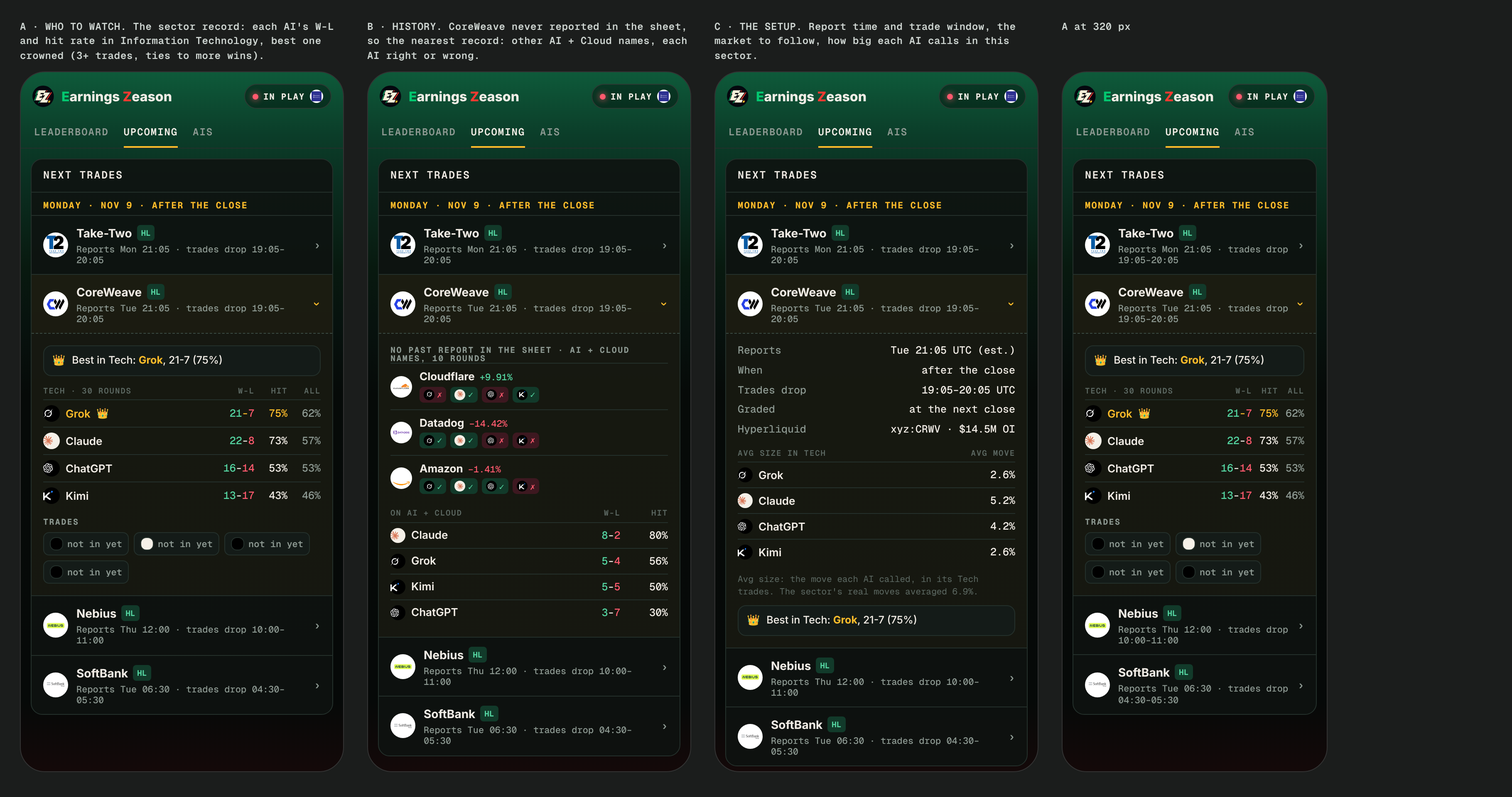
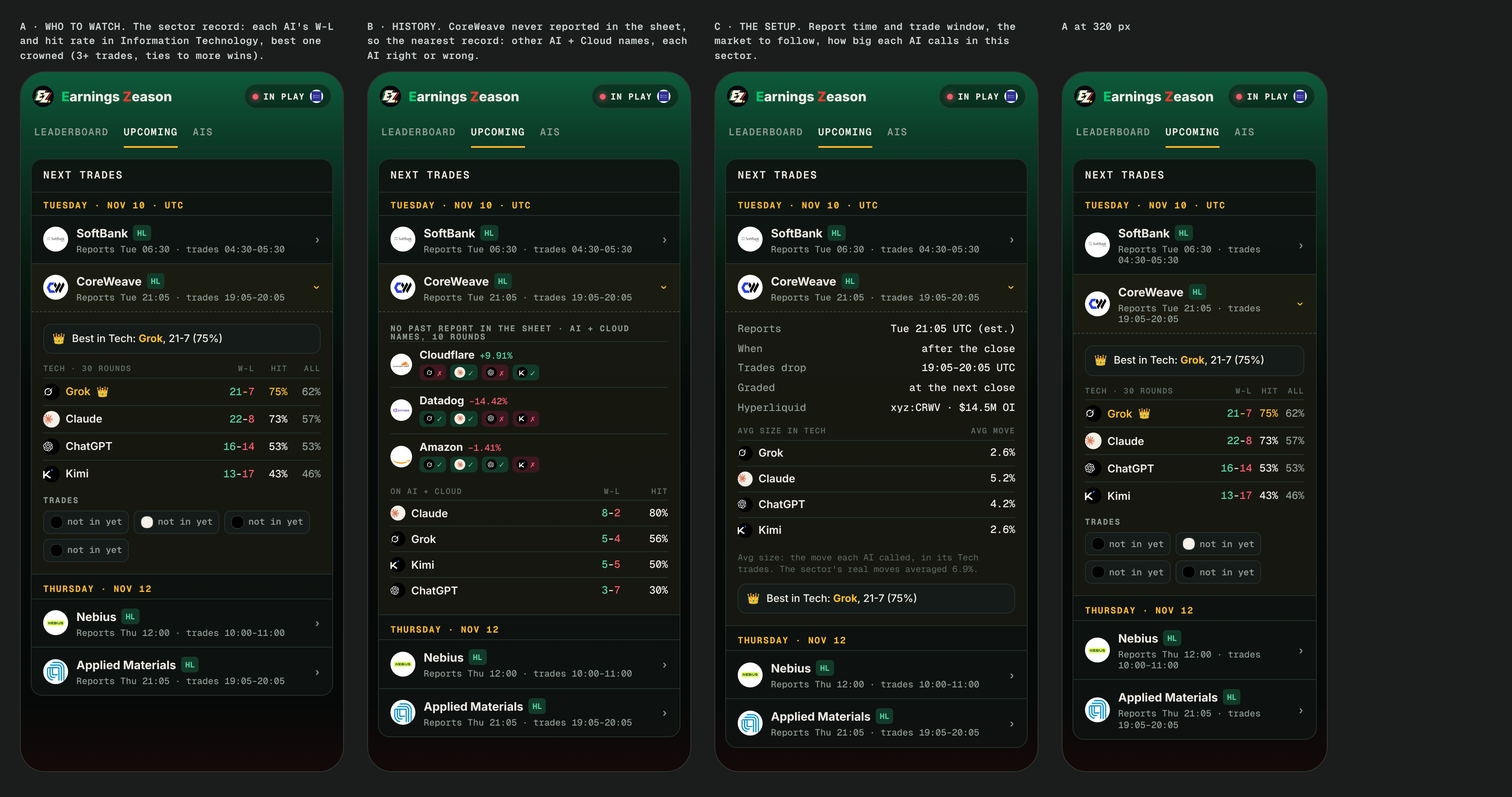
Mockups: Upcoming row expanded (who to watch / history / setup) and the per-round X template (T1, T2, T3 hybrid)
Claude-Session: https://claude.ai/code/session_01KWvAje4hnkBCpPe6R47PoY

diff --git a/ez/tools/concepts/launchvid/vid7-built.html b/ez/tools/concepts/launchvid/vid7-built.html
@@ -1,0 +1,83 @@
+<!doctype html><meta charset="utf-8"><title>EZ round template T3</title>
+<link rel="stylesheet" href="https://fonts.googleapis.com/css2?family=Inter:wght@400;500;600;700;800;900&family=Geist+Mono:wght@500;600;700&display=swap">
+<style>
+/* T3 round template (2026-11-08): v6's four screens for the race, then one closing card: each AI's round P&L, the leaderboard move, the next round. Was: v6 "Four screens" (2026-11-08): one round told as four live P&L screens, R72 Reddit. 1080x1350, R(t) pure. Numbers from ez-data.js; the 24h path is Hyperliquid's (rddt-path.json). */
+:root{--tx:#f5f1ea;--mu:#9fb0a6;--up:#55d6a2;--dn:#ff5a6e;--ac:#fdbc2a;--sans:Inter,system-ui,sans-serif;--mono:"Geist Mono",ui-monospace,monospace}
+*{box-sizing:border-box;margin:0}html,body{width:1080px;height:1350px;overflow:hidden;background:#050806;color:var(--tx);font-family:var(--sans)}
+#st{position:relative;width:1080px;height:1350px;overflow:hidden}
+#bg{position:absolute;inset:0;background:radial-gradient(80% 32% at 50% 0%,rgba(46,190,122,.25),transparent 70%),linear-gradient(180deg,#0e5a3a 0%,#0a2e20 18%,#07120e 38%,#050806 56%,#050806 88%,#130909 100%)}
+
+#bg{position:absolute;inset:0;background:url(hedra/img/stage-a.jpg) center/cover}
+#st{position:relative;width:1080px;height:1350px;overflow:hidden}
+.ty{font:500 76px/1.08 var(--sans);letter-spacing:-.035em;text-align:center}.ty b{font-weight:800}
+.lbl{font:600 26px/1 var(--mono);letter-spacing:.14em;text-transform:uppercase;color:var(--mu)}
+.ai{border-radius:50%;display:grid;place-items:center;flex:none}.ai svg{width:58%;height:58%}
+.sc{position:absolute;inset:0;display:flex;flex-direction:column;align-items:center;justify-content:center;z-index:20}
+#grid{position:absolute;left:40px;right:40px;top:250px;height:900px;display:grid;grid-template-columns:1fr 1fr;gap:28px;z-index:10}
+.cd{position:relative;border-radius:34px;background:rgba(10,16,13,.82);border:2px solid rgba(255,255,255,.10);padding:30px 30px 26px;display:flex;flex-direction:column;box-shadow:0 30px 70px rgba(0,0,0,.5);overflow:hidden}
+.cd .hd{display:flex;align-items:center;gap:16px}.cd .nm{font:800 40px/1 var(--sans);letter-spacing:-.02em}
+.cd .call{margin-top:18px;font:800 34px/1 var(--mono);letter-spacing:-.01em}
+.cd svg.ch{margin-top:16px;flex:1;width:100%}
+.cd .pl{font:900 58px/1 var(--mono);letter-spacing:-.05em;font-variant-numeric:tabular-nums}
+.cd .lk{position:absolute;right:26px;top:30px;font:700 20px/1 var(--mono);letter-spacing:.12em;color:var(--ac);border:2px solid var(--ac);border-radius:10px;padding:8px 10px}
+#top{position:absolute;left:0;right:0;top:92px;display:flex;justify-content:center;align-items:center;gap:22px;z-index:12}
+#clk{font:800 44px/1 var(--mono);font-variant-numeric:tabular-nums}
+#fx{position:absolute;inset:0;pointer-events:none;z-index:50}
+.blk{margin-top:30px;padding-top:24px;border-top:1px solid rgba(255,255,255,.1)}.cr2{display:grid;grid-template-columns:auto auto 1fr auto auto;align-items:center;gap:18px;margin-top:16px}.cr2 b{font:700 36px/1 var(--sans)}.cr2 span{font:800 38px/1 var(--mono);letter-spacing:-.03em;font-variant-numeric:tabular-nums;text-align:right}.cr2 .rk{font:800 30px/1 var(--mono);font-style:normal;color:var(--mu);width:34px}.cr2 em{font:800 28px/1 var(--mono);font-style:normal;color:var(--mu);min-width:60px;text-align:right}.cr2 em.u{color:var(--up)}.cr2 em.d{color:var(--dn)}.cr2:not(:has(.rk)){grid-template-columns:auto 1fr auto}
+.brand{font:900 116px/1 var(--sans);letter-spacing:-.05em;white-space:nowrap}.brand .e{color:#03c870}.brand .z{color:#ff3a31}
+</style>
+<div id="st"><div id="bg"></div><div id="top"></div><div id="grid"></div>
+<div class="sc" id="s1"></div><div class="sc" id="s3"></div><div class="sc" id="s4"></div><canvas id="fx" width="1080" height="1350"></canvas></div>
+<script src="../../../ez-data.js"></script>
+<script>
+function $(i){return document.getElementById(i)}var X=$("fx").getContext("2d");
+var LOGO='<circle cx="198.7" cy="199.4" r="198.2" fill="#04070e"/><path fill="#f8f0d9" d="M116.8,88.0 L86.2,152.0 L102.1,152.0 L55.0,274.5 L154.2,274.5 L188.5,225.8 L128.7,225.8 L137.5,204.0 L170.2,203.5 L193.2,162.0 L149.1,162.0 L154.8,145.0 L143.4,138.5 L217.9,138.2 L192.2,182.0 L234.9,182.0 L181.5,250.8 L136.0,315.8 L272.5,315.8 L292.5,265.0 L230.4,265.0 L328.2,130.8 L225.1,130.8 L253.0,87.8 Z"/><path fill="#03c870" d="M146.2,287.0 L133.0,287.0 L106.5,327.2 L119.0,326.5 Z M86.8,169.5 L74.8,169.5 L29.5,282.2 L43.7,282.2 Z M105.8,92.5 L89.5,95.8 L55.5,169.2 L69.0,169.2 Z"/><path fill="#ff3a31" d="M304.5,259.0 L300.5,269.5 L313.0,268.2 L317.0,258.8 Z M361.5,126.0 L344.0,126.5 L269.5,235.8 L256.0,257.5 L276.2,257.0 Z M279.0,87.8 L266.7,87.5 L251.5,117.2 L262.2,119.0 Z"/><path fill="#fdbc2a" d="M334.2,281.2 L302.0,281.2 L288.2,315.8 L321.0,315.5 Z"/>',PATH={"p0": 129.74, "path": [129.74, 120.324, 116.45, 109.61, 108.062, 108.791, 107.044, 106.524, 106.634, 106.365, 106.145, 105.825, 106.235, 106.205, 106.175, 106.414, 106.165, 106.145, 105.805, 105.865, 105.855, 105.466, 105.406, 105.236, 104.867, 105.386, 105.656, 105.636, 105.725, 105.975, 106.614, 106.724, 106.454, 106.035, 106.205, 106.434, 106.594, 105.975, 106.105, 106.055, 105.735, 105.995, 105.805, 105.845, 105.815, 105.865, 105.336, 105.256, 105.266, 101.711, 100.027, 99.613, 101.322, 101.172, 100.284, 100.563, 100.873, 101.322, 101.212, 101.971, 102.34, 104.857, 105.646, 103.0, 102.6, 102.001, 100.943, 101.701, 100.224, 98.553, 99.694, 97.375, 98.606, 97.467, 95.912, 95.576, 95.989, 94.53, 93.361, 93.502, 93.366, 91.779, 92.232, 91.99, 91.565, 90.882, 90.857, 90.925, 90.165, 90.477, 90.558, 90.857, 90.801, 91.245, 91.269, 92.079, 91.765], "k": 0.9985, "note": "Hyperliquid xyz:RDDT 15m closes, Oct 29 19:45Z to Oct 30 19:45Z, deviations scaled by k so the end equals the sheet -29.27%"},RN=72;
+var MK=["GROK","CLAUDE","GPT","KIMI"],R=ROUNDS.filter(function(r){return r.n===RN})[0];
+function aiIcon(m,px){var M=MODELS[m];return '<span class="ai" style="width:'+px+'px;height:'+px+'px;background:'+M.bg+'"><svg viewBox="0 0 24 24"><path fill="'+M.fg+'"'+(M.fr?' fill-rule="'+M.fr+'"':'')+' d="'+M.d+'"/>'+(M.dot?'<path fill="'+M.dotc+'" d="'+M.dot+'"/>':'')+'</svg></span>'}
+function coIcon(t,px){var L=CO_LOGOS[t];return '<span style="width:'+px+'px;height:'+px+'px;border-radius:50%;background:#fff;display:grid;place-items:center;overflow:hidden;flex:none">'+(L?'<img src="../../../media/'+L.f+'" style="width:76%;height:76%;object-fit:contain">':'')+'</span>'}
+var CALL={};R.calls.forEach(function(c){CALL[c[0]]={s:c[1].indexOf("DOWN")===0?-1:1,mag:parseFloat(c[1].replace(/[^0-9.]/g,""))}});
+function st(N){var p={};MK.forEach(function(m){p[m]=0});ROUNDS.forEach(function(r){if(r.n>N)return;r.calls.forEach(function(c){var s=c[1].indexOf("DOWN")===0?-1:1;p[c[0]]+=1000*s*r.a})});return {p:p,o:MK.slice().sort(function(a,b){return p[b]-p[a]})}}
+var B=st(RN-1),A=st(RN),WIN=R.win,WP=1000*CALL[WIN].s*R.a,RIGHT=R.calls.filter(function(c){return CALL[c[0]].s*R.a>0}).length;
+function money(v){return (v<0?"−":"+")+"$"+Math.abs(Math.round(v)).toLocaleString("en-US")}
+function cl(x){return x<0?0:x>1?1:x}function seg(t,a,b){return cl((t-a)/(b-a))}function eo(x){return x===1?1:1-Math.pow(2,-10*x)}
+function eio(x){return x<.5?4*x*x*x:1-Math.pow(-2*x+2,3)/2}function back(x){var c=1.7,c3=c+1;return 1+c3*Math.pow(x-1,3)+c*Math.pow(x-1,2)}
+function spring(x){return x>=1?1:1-Math.exp(-6*x)*Math.cos(11*x)}function mix(a,b,k){return a+(b-a)*k}
+var ORD=R.calls.map(function(c){return c[0]}),P0=PATH.p0,PP=PATH.path,NP=PP.length;
+function rnd(i){var x=Math.sin(i*127.1+311.7)*43758.5453;return x-Math.floor(x)}
+function burst(t,t0,cx,cy,n,cols,sp){var k=t-t0;if(k<0||k>1.6)return;for(var i=0;i<n;i++){var a=rnd(i)*6.283,v=(.4+rnd(i+99)*.9)*(sp||1100),x=cx+Math.cos(a)*v*k,y=cy+Math.sin(a)*v*k+520*k*k,s=(1-k/1.6)*(6+rnd(i+7)*12);X.fillStyle=cols[i%cols.length];X.globalAlpha=cl(1-k/1.6);X.fillRect(x-s/2,y-s/2,s,s*(.5+rnd(i+3)))}X.globalAlpha=1}
+function flash(t,t0,d,col){var k=t-t0;if(k<0||k>d)return;X.fillStyle=col||'#fff';X.globalAlpha=.85*(1-k/d);X.fillRect(0,0,1080,1350);X.globalAlpha=1}
+function sc(id,on,o){var e=$(id);e.style.display=on?'flex':'none';if(on){e.style.opacity=o==null?1:o;e.style.transform='';e.style.filter=''}return on}
+function rv(el,p,dy){p=eo(p);el.style.opacity=p;el.style.filter='blur('+((1-p)*14).toFixed(1)+'px)';el.style.transform='translateY('+((1-p)*(dy||36)).toFixed(1)+'px)'}
+/* each AI's P&L along the path: $100K x side x move so far */
+var lo=0,hi=0;PP.forEach(function(v){var q=(v/P0-1)*1e5;lo=Math.min(lo,-Math.abs(q));hi=Math.max(hi,Math.abs(q))});
+function pyv(v){return 10+(hi-v)/(hi-lo)*260}
+$("grid").innerHTML=ORD.map(function(m,i){var c=CALL[m];return '<div class="cd" id="c'+i+'"><div class="hd">'+aiIcon(m,72)+'<div class="nm">'+MODELS[m].app+'</div></div><div class="lk" id="k'+i+'">LOCKED</div><div class="call" style="color:'+(c.s>0?'var(--up)':'var(--dn)')+'">'+(c.s>0?'LONG +':'SHORT −')+c.mag+'%</div><svg class="ch" viewBox="0 0 440 280" preserveAspectRatio="none"><line x1="0" x2="440" y1="'+pyv(0)+'" y2="'+pyv(0)+'" stroke="#3b4a42" stroke-width="3" stroke-dasharray="8 8"/><path id="l'+i+'" fill="none" stroke-width="6" stroke-linejoin="round" stroke-linecap="round"/></svg><div class="pl" id="v'+i+'">$0</div></div>'}).join("");
+$("top").innerHTML=coIcon(R.ticker,72)+'<div><div class="lbl" style="font-size:22px">'+R.co+' · since the report</div><div id="clk">+00:00</div></div>';
+$("s1").innerHTML='<div style="display:flex;justify-content:center" id="h0">'+coIcon(R.ticker,150)+'</div><div class="ty" id="h1" style="margin-top:50px"><b>'+R.co+'</b> reported. Who called it?</div><div class="ty" id="h2" style="margin-top:24px;font-size:58px;color:var(--mu)">4 AIs. 4 trades. $100K each.</div>';
+$("s3").innerHTML='<div class="lbl" id="w0" style="color:var(--ac);font-size:30px">The close · '+RIGHT+' of 4 called it</div><div class="ty" id="w1" style="margin-top:30px;font-size:92px"><b>'+MODELS[WIN].app+'</b> wins</div><div id="w2" style="font:900 140px/1 var(--mono);letter-spacing:-.05em;color:var(--up);margin-top:20px">+$0</div>';
+
+var NX=ROUNDS.concat(PENDING||[],UPCOMING||[]).filter(function(r){return r.n===RN+1})[0];
+var rowsP=ORD.slice().sort(function(a,b){return CALL[b].s*R.a-CALL[a].s*R.a}).map(function(m){var v=1000*CALL[m].s*R.a;return '<div class="cr2">'+aiIcon(m,48)+'<b>'+MODELS[m].app+'</b><span style="color:'+(v>=0?'var(--up)':'var(--dn)')+'">'+money(v)+'</span></div>'}).join('');
+var rowsL=A.o.map(function(m,i){var was=B.o.indexOf(m),mv=was-i;return '<div class="cr2"><i class="rk">'+(i+1)+'</i>'+aiIcon(m,40)+'<b>'+MODELS[m].app+'</b><em class="'+(mv>0?'u':mv<0?'d':'')+'">'+(mv>0?'▲'+mv:mv<0?'▼'+(-mv):'')+'</em><span>'+money(A.p[m])+'</span></div>'}).join('');
+$("s4").innerHTML='<div id="cc2" style="width:960px;border-radius:40px;background:rgba(10,16,13,.9);border:2px solid rgba(255,255,255,.1);padding:46px 52px;box-shadow:0 40px 90px rgba(0,0,0,.6)"><div class="lbl" style="color:var(--ac);font-size:26px">Round '+RN+' · '+R.co+' '+(R.a>=0?'+':'−')+Math.abs(R.a)+'%</div><div class="blk" id="k1"><div class="lbl">This round · $100K each</div>'+rowsP+'</div><div class="blk" id="k2"><div class="lbl">Leaderboard · all-time P&L</div>'+rowsL+'<div class="lbl" style="margin-top:18px;text-transform:none;letter-spacing:.02em;font-size:26px">Lead at the top: '+money(B.p[B.o[0]]-B.p[B.o[1]]).replace('+','')+' → <b style="color:var(--ac)">'+money(A.p[A.o[0]]-A.p[A.o[1]]).replace('+','')+'</b></div></div>'+(NX?'<div class="blk" id="k3" style="display:flex;align-items:center;gap:22px"><div class="lbl" style="flex:none">Next</div>'+coIcon(NX.ticker,64)+'<b style="font:800 40px/1 var(--sans)">'+NX.co+'</b><span class="lbl" style="margin-left:auto;font-size:24px">@earningszn</span></div>':'')+'</div>';
+window.R=function(t){X.clearRect(0,0,1080,1350);["s1","s3","s4"].forEach(function(s){sc(s,0)});$("grid").style.opacity=0;$("top").style.opacity=0;
+ if(t<1.9){sc("s1",1);rv($("h0"),seg(t,0,.35));rv($("h1"),seg(t,.15,.5));rv($("h2"),seg(t,.55,.9));if(t>1.6){$("s1").style.opacity=1-seg(t,1.6,1.9);$("s1").style.filter='blur('+seg(t,1.6,1.9)*14+'px)'}}
+ var lo2=t>=1.7&&t<11.6;if(lo2){$("grid").style.opacity=t>11.2?1-seg(t,11.2,11.6):1;
+  var q=eio(seg(t,4.0,9.6)),fi=q*(NP-1),i0=Math.floor(fi),pr=PP[i0]+(PP[Math.min(NP-1,i0+1)]-PP[i0])*(fi-i0),mv=(pr/P0-1);
+  $("top").style.opacity=eo(seg(t,3.7,4.0));var mins=Math.round(q*1440);$("clk").textContent='+'+String(Math.floor(mins/60)).padStart(2,'0')+':'+String(mins%60).padStart(2,'0');
+  var cz=seg(t,9.7,10.3);
+  ORD.forEach(function(m,i){var c=CALL[m],e=$("c"+i),a=seg(t,1.7+i*.18,2.3+i*.18);e.style.opacity=eo(a);var won=m===WIN;
+   var k=e.querySelector(".lk");k.style.opacity=t>2.9+i*.12?1:0;k.style.transform='rotate(-6deg) scale('+(1.8-.8*eo(seg(t,2.9+i*.12,3.1+i*.12)))+')';
+   var d='';for(var j=0;j<=i0;j++){var vj=c.s*(PP[j]/P0-1)*1e5;d+=(j?'L':'M')+(j/(NP-1)*440).toFixed(1)+','+pyv(vj).toFixed(1)}var v=c.s*mv*1e5;d+='L'+(fi/(NP-1)*440).toFixed(1)+','+pyv(v).toFixed(1);
+   var col=v>=0?'#55d6a2':'#ff5a6e';$("l"+i).setAttribute('d',t>4?d:'');$("l"+i).setAttribute('stroke',col);var el=$("v"+i);el.textContent=t>4?money(v):'$0';el.style.color=t>4?col:'var(--mu)';
+   var gl=t>4.3?Math.min(1,Math.abs(v)/15000):0;e.style.borderColor=t>4.3?(v>=0?'rgba(85,214,162,'+(.25+.6*gl)+')':'rgba(255,90,110,'+(.2+.5*gl)+')'):'rgba(255,255,255,.10)';
+   e.style.boxShadow='0 30px 70px rgba(0,0,0,.5)'+(t>4.3?',0 0 '+(60*gl).toFixed(0)+'px '+(v>=0?'rgba(85,214,162,.45)':'rgba(255,90,110,.3)'):'');
+   var dy=(1-eo(a))*120;e.style.transform='translateY('+dy+'px) scale('+(won?1+.06*eo(cz):1-.04*eo(cz))+')';e.style.filter=won?'':'saturate('+(1-.8*cz)+') brightness('+(1-.45*cz)+')';
+   if(t>11.2)e.style.filter+=' blur('+(seg(t,11.2,11.6)*12)+'px)'});
+  if(t>=3.75&&t<3.95)flash(t,3.75,.25,'#fff');}
+ if(t>=10.1&&t<12.0){sc("s3",1,t>11.6?1-seg(t,11.6,12.0):1);$("s3").style.background='radial-gradient(60% 40% at 50% 50%,rgba(5,8,6,.85),rgba(5,8,6,.55))';rv($("w0"),seg(t,10.1,10.4));rv($("w1"),seg(t,10.25,10.6));
+  $("w2").style.opacity=eo(seg(t,10.4,10.6));$("w2").textContent=money(WP*eo(seg(t,10.45,11.2)));burst(t,10.3,540,640,160,['#fdbc2a','#55d6a2','#f5f1ea','#03c870'],1300)}
+ if(t>=11.6){sc("s4",1,eo(seg(t,11.6,11.9)));var c2=seg(t,11.6,12.1);$("cc2").style.transform='translateY('+((1-eo(c2))*80)+'px) scale('+(.96+.04*eo(c2))+')';rv($("k1"),seg(t,11.8,12.2));rv($("k2"),seg(t,12.6,13.0));if($("k3"))rv($("k3"),seg(t,13.6,14.0))}
+};
+window.R(0);
+</script>

diff --git a/ez/tools/concepts/launchvid/vid7.html b/ez/tools/concepts/launchvid/vid7.html
@@ -1,0 +1,83 @@
+<!doctype html><meta charset="utf-8"><title>EZ round template T3</title>
+<link rel="stylesheet" href="https://fonts.googleapis.com/css2?family=Inter:wght@400;500;600;700;800;900&family=Geist+Mono:wght@500;600;700&display=swap">
+<style>
+/* T3 round template (2026-11-08): v6's four screens for the race, then one closing card: each AI's round P&L, the leaderboard move, the next round. Was: v6 "Four screens" (2026-11-08): one round told as four live P&L screens, R72 Reddit. 1080x1350, R(t) pure. Numbers from ez-data.js; the 24h path is Hyperliquid's (rddt-path.json). */
+:root{--tx:#f5f1ea;--mu:#9fb0a6;--up:#55d6a2;--dn:#ff5a6e;--ac:#fdbc2a;--sans:Inter,system-ui,sans-serif;--mono:"Geist Mono",ui-monospace,monospace}
+*{box-sizing:border-box;margin:0}html,body{width:1080px;height:1350px;overflow:hidden;background:#050806;color:var(--tx);font-family:var(--sans)}
+#st{position:relative;width:1080px;height:1350px;overflow:hidden}
+#bg{position:absolute;inset:0;background:radial-gradient(80% 32% at 50% 0%,rgba(46,190,122,.25),transparent 70%),linear-gradient(180deg,#0e5a3a 0%,#0a2e20 18%,#07120e 38%,#050806 56%,#050806 88%,#130909 100%)}
+
+#bg{position:absolute;inset:0;background:url(hedra/img/stage-a.jpg) center/cover}
+#st{position:relative;width:1080px;height:1350px;overflow:hidden}
+.ty{font:500 76px/1.08 var(--sans);letter-spacing:-.035em;text-align:center}.ty b{font-weight:800}
+.lbl{font:600 26px/1 var(--mono);letter-spacing:.14em;text-transform:uppercase;color:var(--mu)}
+.ai{border-radius:50%;display:grid;place-items:center;flex:none}.ai svg{width:58%;height:58%}
+.sc{position:absolute;inset:0;display:flex;flex-direction:column;align-items:center;justify-content:center;z-index:20}
+#grid{position:absolute;left:40px;right:40px;top:250px;height:900px;display:grid;grid-template-columns:1fr 1fr;gap:28px;z-index:10}
+.cd{position:relative;border-radius:34px;background:rgba(10,16,13,.82);border:2px solid rgba(255,255,255,.10);padding:30px 30px 26px;display:flex;flex-direction:column;box-shadow:0 30px 70px rgba(0,0,0,.5);overflow:hidden}
+.cd .hd{display:flex;align-items:center;gap:16px}.cd .nm{font:800 40px/1 var(--sans);letter-spacing:-.02em}
+.cd .call{margin-top:18px;font:800 34px/1 var(--mono);letter-spacing:-.01em}
+.cd svg.ch{margin-top:16px;flex:1;width:100%}
+.cd .pl{font:900 58px/1 var(--mono);letter-spacing:-.05em;font-variant-numeric:tabular-nums}
+.cd .lk{position:absolute;right:26px;top:30px;font:700 20px/1 var(--mono);letter-spacing:.12em;color:var(--ac);border:2px solid var(--ac);border-radius:10px;padding:8px 10px}
+#top{position:absolute;left:0;right:0;top:92px;display:flex;justify-content:center;align-items:center;gap:22px;z-index:12}
+#clk{font:800 44px/1 var(--mono);font-variant-numeric:tabular-nums}
+#fx{position:absolute;inset:0;pointer-events:none;z-index:50}
+.blk{margin-top:30px;padding-top:24px;border-top:1px solid rgba(255,255,255,.1)}.cr2{display:grid;grid-template-columns:auto auto 1fr auto auto;align-items:center;gap:18px;margin-top:16px}.cr2 b{font:700 36px/1 var(--sans)}.cr2 span{font:800 38px/1 var(--mono);letter-spacing:-.03em;font-variant-numeric:tabular-nums;text-align:right}.cr2 .rk{font:800 30px/1 var(--mono);font-style:normal;color:var(--mu);width:34px}.cr2 em{font:800 28px/1 var(--mono);font-style:normal;color:var(--mu);min-width:60px;text-align:right}.cr2 em.u{color:var(--up)}.cr2 em.d{color:var(--dn)}.cr2:not(:has(.rk)){grid-template-columns:auto 1fr auto}
+.brand{font:900 116px/1 var(--sans);letter-spacing:-.05em;white-space:nowrap}.brand .e{color:#03c870}.brand .z{color:#ff3a31}
+</style>
+<div id="st"><div id="bg"></div><div id="top"></div><div id="grid"></div>
+<div class="sc" id="s1"></div><div class="sc" id="s3"></div><div class="sc" id="s4"></div><canvas id="fx" width="1080" height="1350"></canvas></div>
+<script src="../../../ez-data.js"></script>
+<script>
+function $(i){return document.getElementById(i)}var X=$("fx").getContext("2d");
+var LOGO='__EZLOGO__',PATH=__PATH__,RN=72;
+var MK=["GROK","CLAUDE","GPT","KIMI"],R=ROUNDS.filter(function(r){return r.n===RN})[0];
+function aiIcon(m,px){var M=MODELS[m];return '<span class="ai" style="width:'+px+'px;height:'+px+'px;background:'+M.bg+'"><svg viewBox="0 0 24 24"><path fill="'+M.fg+'"'+(M.fr?' fill-rule="'+M.fr+'"':'')+' d="'+M.d+'"/>'+(M.dot?'<path fill="'+M.dotc+'" d="'+M.dot+'"/>':'')+'</svg></span>'}
+function coIcon(t,px){var L=CO_LOGOS[t];return '<span style="width:'+px+'px;height:'+px+'px;border-radius:50%;background:#fff;display:grid;place-items:center;overflow:hidden;flex:none">'+(L?'<img src="../../../media/'+L.f+'" style="width:76%;height:76%;object-fit:contain">':'')+'</span>'}
+var CALL={};R.calls.forEach(function(c){CALL[c[0]]={s:c[1].indexOf("DOWN")===0?-1:1,mag:parseFloat(c[1].replace(/[^0-9.]/g,""))}});
+function st(N){var p={};MK.forEach(function(m){p[m]=0});ROUNDS.forEach(function(r){if(r.n>N)return;r.calls.forEach(function(c){var s=c[1].indexOf("DOWN")===0?-1:1;p[c[0]]+=1000*s*r.a})});return {p:p,o:MK.slice().sort(function(a,b){return p[b]-p[a]})}}
+var B=st(RN-1),A=st(RN),WIN=R.win,WP=1000*CALL[WIN].s*R.a,RIGHT=R.calls.filter(function(c){return CALL[c[0]].s*R.a>0}).length;
+function money(v){return (v<0?"−":"+")+"$"+Math.abs(Math.round(v)).toLocaleString("en-US")}
+function cl(x){return x<0?0:x>1?1:x}function seg(t,a,b){return cl((t-a)/(b-a))}function eo(x){return x===1?1:1-Math.pow(2,-10*x)}
+function eio(x){return x<.5?4*x*x*x:1-Math.pow(-2*x+2,3)/2}function back(x){var c=1.7,c3=c+1;return 1+c3*Math.pow(x-1,3)+c*Math.pow(x-1,2)}
+function spring(x){return x>=1?1:1-Math.exp(-6*x)*Math.cos(11*x)}function mix(a,b,k){return a+(b-a)*k}
+var ORD=R.calls.map(function(c){return c[0]}),P0=PATH.p0,PP=PATH.path,NP=PP.length;
+function rnd(i){var x=Math.sin(i*127.1+311.7)*43758.5453;return x-Math.floor(x)}
+function burst(t,t0,cx,cy,n,cols,sp){var k=t-t0;if(k<0||k>1.6)return;for(var i=0;i<n;i++){var a=rnd(i)*6.283,v=(.4+rnd(i+99)*.9)*(sp||1100),x=cx+Math.cos(a)*v*k,y=cy+Math.sin(a)*v*k+520*k*k,s=(1-k/1.6)*(6+rnd(i+7)*12);X.fillStyle=cols[i%cols.length];X.globalAlpha=cl(1-k/1.6);X.fillRect(x-s/2,y-s/2,s,s*(.5+rnd(i+3)))}X.globalAlpha=1}
+function flash(t,t0,d,col){var k=t-t0;if(k<0||k>d)return;X.fillStyle=col||'#fff';X.globalAlpha=.85*(1-k/d);X.fillRect(0,0,1080,1350);X.globalAlpha=1}
+function sc(id,on,o){var e=$(id);e.style.display=on?'flex':'none';if(on){e.style.opacity=o==null?1:o;e.style.transform='';e.style.filter=''}return on}
+function rv(el,p,dy){p=eo(p);el.style.opacity=p;el.style.filter='blur('+((1-p)*14).toFixed(1)+'px)';el.style.transform='translateY('+((1-p)*(dy||36)).toFixed(1)+'px)'}
+/* each AI's P&L along the path: $100K x side x move so far */
+var lo=0,hi=0;PP.forEach(function(v){var q=(v/P0-1)*1e5;lo=Math.min(lo,-Math.abs(q));hi=Math.max(hi,Math.abs(q))});
+function pyv(v){return 10+(hi-v)/(hi-lo)*260}
+$("grid").innerHTML=ORD.map(function(m,i){var c=CALL[m];return '<div class="cd" id="c'+i+'"><div class="hd">'+aiIcon(m,72)+'<div class="nm">'+MODELS[m].app+'</div></div><div class="lk" id="k'+i+'">LOCKED</div><div class="call" style="color:'+(c.s>0?'var(--up)':'var(--dn)')+'">'+(c.s>0?'LONG +':'SHORT −')+c.mag+'%</div><svg class="ch" viewBox="0 0 440 280" preserveAspectRatio="none"><line x1="0" x2="440" y1="'+pyv(0)+'" y2="'+pyv(0)+'" stroke="#3b4a42" stroke-width="3" stroke-dasharray="8 8"/><path id="l'+i+'" fill="none" stroke-width="6" stroke-linejoin="round" stroke-linecap="round"/></svg><div class="pl" id="v'+i+'">$0</div></div>'}).join("");
+$("top").innerHTML=coIcon(R.ticker,72)+'<div><div class="lbl" style="font-size:22px">'+R.co+' · since the report</div><div id="clk">+00:00</div></div>';
+$("s1").innerHTML='<div style="display:flex;justify-content:center" id="h0">'+coIcon(R.ticker,150)+'</div><div class="ty" id="h1" style="margin-top:50px"><b>'+R.co+'</b> reported. Who called it?</div><div class="ty" id="h2" style="margin-top:24px;font-size:58px;color:var(--mu)">4 AIs. 4 trades. $100K each.</div>';
+$("s3").innerHTML='<div class="lbl" id="w0" style="color:var(--ac);font-size:30px">The close · '+RIGHT+' of 4 called it</div><div class="ty" id="w1" style="margin-top:30px;font-size:92px"><b>'+MODELS[WIN].app+'</b> wins</div><div id="w2" style="font:900 140px/1 var(--mono);letter-spacing:-.05em;color:var(--up);margin-top:20px">+$0</div>';
+
+var NX=ROUNDS.concat(PENDING||[],UPCOMING||[]).filter(function(r){return r.n===RN+1})[0];
+var rowsP=ORD.slice().sort(function(a,b){return CALL[b].s*R.a-CALL[a].s*R.a}).map(function(m){var v=1000*CALL[m].s*R.a;return '<div class="cr2">'+aiIcon(m,48)+'<b>'+MODELS[m].app+'</b><span style="color:'+(v>=0?'var(--up)':'var(--dn)')+'">'+money(v)+'</span></div>'}).join('');
+var rowsL=A.o.map(function(m,i){var was=B.o.indexOf(m),mv=was-i;return '<div class="cr2"><i class="rk">'+(i+1)+'</i>'+aiIcon(m,40)+'<b>'+MODELS[m].app+'</b><em class="'+(mv>0?'u':mv<0?'d':'')+'">'+(mv>0?'▲'+mv:mv<0?'▼'+(-mv):'')+'</em><span>'+money(A.p[m])+'</span></div>'}).join('');
+$("s4").innerHTML='<div id="cc2" style="width:960px;border-radius:40px;background:rgba(10,16,13,.9);border:2px solid rgba(255,255,255,.1);padding:46px 52px;box-shadow:0 40px 90px rgba(0,0,0,.6)"><div class="lbl" style="color:var(--ac);font-size:26px">Round '+RN+' · '+R.co+' '+(R.a>=0?'+':'−')+Math.abs(R.a)+'%</div><div class="blk" id="k1"><div class="lbl">This round · $100K each</div>'+rowsP+'</div><div class="blk" id="k2"><div class="lbl">Leaderboard · all-time P&L</div>'+rowsL+'<div class="lbl" style="margin-top:18px;text-transform:none;letter-spacing:.02em;font-size:26px">Lead at the top: '+money(B.p[B.o[0]]-B.p[B.o[1]]).replace('+','')+' → <b style="color:var(--ac)">'+money(A.p[A.o[0]]-A.p[A.o[1]]).replace('+','')+'</b></div></div>'+(NX?'<div class="blk" id="k3" style="display:flex;align-items:center;gap:22px"><div class="lbl" style="flex:none">Next</div>'+coIcon(NX.ticker,64)+'<b style="font:800 40px/1 var(--sans)">'+NX.co+'</b><span class="lbl" style="margin-left:auto;font-size:24px">@earningszn</span></div>':'')+'</div>';
+window.R=function(t){X.clearRect(0,0,1080,1350);["s1","s3","s4"].forEach(function(s){sc(s,0)});$("grid").style.opacity=0;$("top").style.opacity=0;
+ if(t<1.9){sc("s1",1);rv($("h0"),seg(t,0,.35));rv($("h1"),seg(t,.15,.5));rv($("h2"),seg(t,.55,.9));if(t>1.6){$("s1").style.opacity=1-seg(t,1.6,1.9);$("s1").style.filter='blur('+seg(t,1.6,1.9)*14+'px)'}}
+ var lo2=t>=1.7&&t<11.6;if(lo2){$("grid").style.opacity=t>11.2?1-seg(t,11.2,11.6):1;
+  var q=eio(seg(t,4.0,9.6)),fi=q*(NP-1),i0=Math.floor(fi),pr=PP[i0]+(PP[Math.min(NP-1,i0+1)]-PP[i0])*(fi-i0),mv=(pr/P0-1);
+  $("top").style.opacity=eo(seg(t,3.7,4.0));var mins=Math.round(q*1440);$("clk").textContent='+'+String(Math.floor(mins/60)).padStart(2,'0')+':'+String(mins%60).padStart(2,'0');
+  var cz=seg(t,9.7,10.3);
+  ORD.forEach(function(m,i){var c=CALL[m],e=$("c"+i),a=seg(t,1.7+i*.18,2.3+i*.18);e.style.opacity=eo(a);var won=m===WIN;
+   var k=e.querySelector(".lk");k.style.opacity=t>2.9+i*.12?1:0;k.style.transform='rotate(-6deg) scale('+(1.8-.8*eo(seg(t,2.9+i*.12,3.1+i*.12)))+')';
+   var d='';for(var j=0;j<=i0;j++){var vj=c.s*(PP[j]/P0-1)*1e5;d+=(j?'L':'M')+(j/(NP-1)*440).toFixed(1)+','+pyv(vj).toFixed(1)}var v=c.s*mv*1e5;d+='L'+(fi/(NP-1)*440).toFixed(1)+','+pyv(v).toFixed(1);
+   var col=v>=0?'#55d6a2':'#ff5a6e';$("l"+i).setAttribute('d',t>4?d:'');$("l"+i).setAttribute('stroke',col);var el=$("v"+i);el.textContent=t>4?money(v):'$0';el.style.color=t>4?col:'var(--mu)';
+   var gl=t>4.3?Math.min(1,Math.abs(v)/15000):0;e.style.borderColor=t>4.3?(v>=0?'rgba(85,214,162,'+(.25+.6*gl)+')':'rgba(255,90,110,'+(.2+.5*gl)+')'):'rgba(255,255,255,.10)';
+   e.style.boxShadow='0 30px 70px rgba(0,0,0,.5)'+(t>4.3?',0 0 '+(60*gl).toFixed(0)+'px '+(v>=0?'rgba(85,214,162,.45)':'rgba(255,90,110,.3)'):'');
+   var dy=(1-eo(a))*120;e.style.transform='translateY('+dy+'px) scale('+(won?1+.06*eo(cz):1-.04*eo(cz))+')';e.style.filter=won?'':'saturate('+(1-.8*cz)+') brightness('+(1-.45*cz)+')';
+   if(t>11.2)e.style.filter+=' blur('+(seg(t,11.2,11.6)*12)+'px)'});
+  if(t>=3.75&&t<3.95)flash(t,3.75,.25,'#fff');}
+ if(t>=10.1&&t<12.0){sc("s3",1,t>11.6?1-seg(t,11.6,12.0):1);$("s3").style.background='radial-gradient(60% 40% at 50% 50%,rgba(5,8,6,.85),rgba(5,8,6,.55))';rv($("w0"),seg(t,10.1,10.4));rv($("w1"),seg(t,10.25,10.6));
+  $("w2").style.opacity=eo(seg(t,10.4,10.6));$("w2").textContent=money(WP*eo(seg(t,10.45,11.2)));burst(t,10.3,540,640,160,['#fdbc2a','#55d6a2','#f5f1ea','#03c870'],1300)}
+ if(t>=11.6){sc("s4",1,eo(seg(t,11.6,11.9)));var c2=seg(t,11.6,12.1);$("cc2").style.transform='translateY('+((1-eo(c2))*80)+'px) scale('+(.96+.04*eo(c2))+')';rv($("k1"),seg(t,11.8,12.2));rv($("k2"),seg(t,12.6,13.0));if($("k3"))rv($("k3"),seg(t,13.6,14.0))}
+};
+window.R(0);
+</script>

diff --git a/ez/tools/concepts/upexpand/up.html b/ez/tools/concepts/upexpand/up.html
@@ -50,7 +50,7 @@ var secR=ROUNDS.filter(function(r){return (RMETA[r.n]||{}).sector===SEC}),SS=sta
 var D=["Sun","Mon","Tue","Wed","Thu","Fri","Sat"];function utc(iso){var d=new Date(iso);return D[d.getUTCDay()]+' '+String(d.getUTCHours()).padStart(2,'0')+':'+String(d.getUTCMinutes()).padStart(2,'0')}
 function drop(iso){var d=new Date(iso),a=new Date(d-2*36e5),b=new Date(d-36e5);function h(x){return String(x.getUTCHours()).padStart(2,'0')+':'+String(x.getUTCMinutes()).padStart(2,'0')}return h(a)+'–'+h(b)}
 var head='<div class="top"><svg width="26" height="26" viewBox="0 0 400 400">'+logo+'</svg><b><span class="e">E</span>arnings <span class="z">Z</span>eason</b><span class="pill"><i></i>IN PLAY '+coIcon('BRK.B',16)+'</span></div><div class="nav"><b>LEADERBOARD</b><b class="on">UPCOMING</b><b>AIS</b></div>';
-function rowC(u,op){var R=REPORT[u.ticker]||{},hl=HL[u.ticker.split('.')[0]];return '<div class="row'+(op?' op':'')+'">'+coIcon(u.ticker,30)+'<div><b>'+u.co+(hl?'<span class="hl">HL</span>':'')+'</b><small>'+(R.t?'Reports '+utc(R.t)+' · trades drop '+drop(R.t):'Date to come')+'</small></div><span class="chev">›</span></div>'}
+function rowC(u,op){var R=REPORT[u.ticker]||{},hl=HL[u.ticker.split('.')[0]];return '<div class="row'+(op?' op':'')+'">'+coIcon(u.ticker,30)+'<div><b>'+u.co+(hl?'<span class="hl">HL</span>':'')+'</b><small>'+(R.t?'Reports '+utc(R.t)+' · trades '+drop(R.t):'Date to come')+'</small></div><span class="chev">›</span></div>'}
 var others=UPCOMING.filter(function(u){return u.called===U.called&&u.n!==TARGET}).slice(0,1).concat(UPCOMING.filter(function(u){return u.called!==U.called&&u.n>TARGET}).slice(0,2));
 var BL='<div class="line">👑 <span>Best in '+SEC.replace('Information Technology','Tech')+': <b>'+MODELS[B].app+'</b>, '+SS[B].w+'-'+SS[B].l+' ('+Math.round(hr(SS[B])*100)+'%)</span></div>';
 var tradesNote='<div class="k">Trades</div><div class="calls">'+MK.map(function(m){return '<span>'+aiIcon(m,16)+'not in yet</span>'}).join('')+'</div>';
@@ -68,8 +68,7 @@ var R=REPORT[U.ticker],hl=HL[U.ticker];
 var C='<dl class="kv"><dt>Reports</dt><dd>'+utc(R.t)+' UTC'+(R.est?' (est.)':'')+'</dd><dt>When</dt><dd>'+R.w+'</dd><dt>Trades drop</dt><dd>'+drop(R.t)+' UTC</dd><dt>Graded</dt><dd>at the next close</dd><dt>Hyperliquid</dt><dd>'+(hl?hl[1]+':'+hl[0]+' · $'+hl[2]+'M OI':'no market')+'</dd></dl>'+
  '<table class="t" style="margin-top:10px"><tr><th>Avg size in '+SEC.replace('Information Technology','Tech')+'</th><th>Avg move</th></tr>'+MK.map(function(m){var s=SS[m];return '<tr><td><span>'+aiIcon(m,18)+MODELS[m].app+'</span></td><td>'+(s.sz/s.n).toFixed(1)+'%</td></tr>'}).join('')+'</table>'+
  '<div class="note">Avg size: the move each AI called, in its '+SEC.replace('Information Technology','Tech')+' trades. The sector\'s real moves averaged '+(secR.reduce(function(a,r){return a+Math.abs(r.a)},0)/secR.length).toFixed(1)+'%.</div>'+BL;
-function phone(cap,ex,w){return '<div><div class="cap" style="width:'+(w||390)+'px">'+cap+'</div><div class="ph" style="--w:'+(w||390)+'px">'+head+'<div class="pnl"><h3>NEXT TRADES</h3><div class="day">'+'MONDAY · NOV 9 · AFTER THE CLOSE'+'</div>'+
- rowC(UPCOMING.filter(function(u){return u.n===100})[0])+rowC(U,true)+'<div class="ex">'+ex+'</div>'+others.slice(1).map(function(u){return rowC(u)}).join('')+'</div></div></div>'}
+function phone(cap,ex,w){return '<div><div class="cap" style="width:'+(w||390)+'px">'+cap+'</div><div class="ph" style="--w:'+(w||390)+'px">'+head+'<div class="pnl"><h3>NEXT TRADES</h3><div class="day">TUESDAY · NOV 10 · UTC</div>'+rowC(UPCOMING.filter(function(u){return u.n===107})[0])+rowC(U,true)+'<div class="ex">'+ex+'</div><div class="day" style="border-top:1px solid var(--ln);padding-top:12px">THURSDAY · NOV 12</div>'+rowC(UPCOMING.filter(function(u){return u.n===106})[0])+rowC(UPCOMING.filter(function(u){return u.n===109})[0])+'</div></div></div>'}
 U.co=U.co||'CoreWeave';
 document.body.innerHTML=phone('A · WHO TO WATCH. The sector record: each AI\'s W-L and hit rate in '+SEC+', best one crowned (3+ trades, ties to more wins).',A)+
  phone('B · HISTORY. '+U.co+' never reported in the sheet, so the nearest record: other '+th.join(' + ')+' names, each AI right or wrong.',Bv)+

diff --git a/ez/x2p-round-template.md b/ez/x2p-round-template.md
@@ -1,0 +1,20 @@
+# Per-round X post template (2026-11-08)
+
+The board is `x2p-round-template.png`: R72 Reddit, three takes, 4:5 stills. Every number comes from ez-data.js, with Hyperliquid 15m candles for the price path.
+
+| | T1 · Four screens | T2 · Chart card S:clean | T3 · Hybrid (four screens + closing card) |
+|---|---|---|---|
+| File | `launchvid/vid6.html` | `chartcard/make.js <n> S:clean` | `launchvid/vid7.html` (new) |
+| Length | 14 s | 19.9 s | 15 s |
+| Muted, first 2 s | Logo plus "Reddit reports tonight. 4 AIs. 4 trades. $100K each." The tense is wrong for a post made after the result. | "ROUND 72 $RDDT", then four faces with "?". Clear that something is coming, not what. | Logo plus "Reddit reported. Who called it?" Past tense, and it asks the question the clip answers. |
+| How automatic | Needs a price-path file per round, made by hand (`rddt-path.json`), and its own sound. | **Fully automatic today.** One command per round; it fetches Hyperliquid itself and writes a no-spoiler post text. | Same as T1. To automate: reuse T2's Hyperliquid fetch to write the path, and add the sound and a render step. About half a day. |
+| What it shows | The race and the winner. | The race on one chart, the winner, the round table, the next round. | The race as four cards, the winner, the round P&L, the leaderboard with rank moves and the lead change ($910 → $59,450), the next round. |
+| What it lacks | No leaderboard and no next round, so no reason to come back. | Four lines on one chart are harder to read on a phone. Mid-race it shows Hyperliquid's raw move (−29.71%), which overshoots the sheet's −29.27%. Its post text still says "Paper", which the site dropped. | Not automated yet. Rank moves are often blank: R72 changed the gap, not the order. |
+
+**Recommendation: T3.** The four cards read at a glance with the sound off: three red, one green. The closing card is the part that brings people back: who leads now, by how much, and what's next. Until T3 is automated, post T2. It's the only one that runs unattended today.
+
+## Data gaps found
+- **The sheet has no company twice** (one season), so the "history" view of an expanded Upcoming row can only use similar companies: same themes, from RMETA.
+- **Report times in the REPORT map are mostly estimates** (`est:1`). Trade windows built from them (1–2 h before) are estimates too.
+- **Call dates and report days don't always match.** CoreWeave (R104) is called 11/9 in the sheet, but REPORT has it reporting Tue 11/10 21:05 UTC. So the Upcoming row's trade window can fall on a different day from its call date.
+- **Hyperliquid open interest** in the HL map is the 2026-11-03 snapshot.
